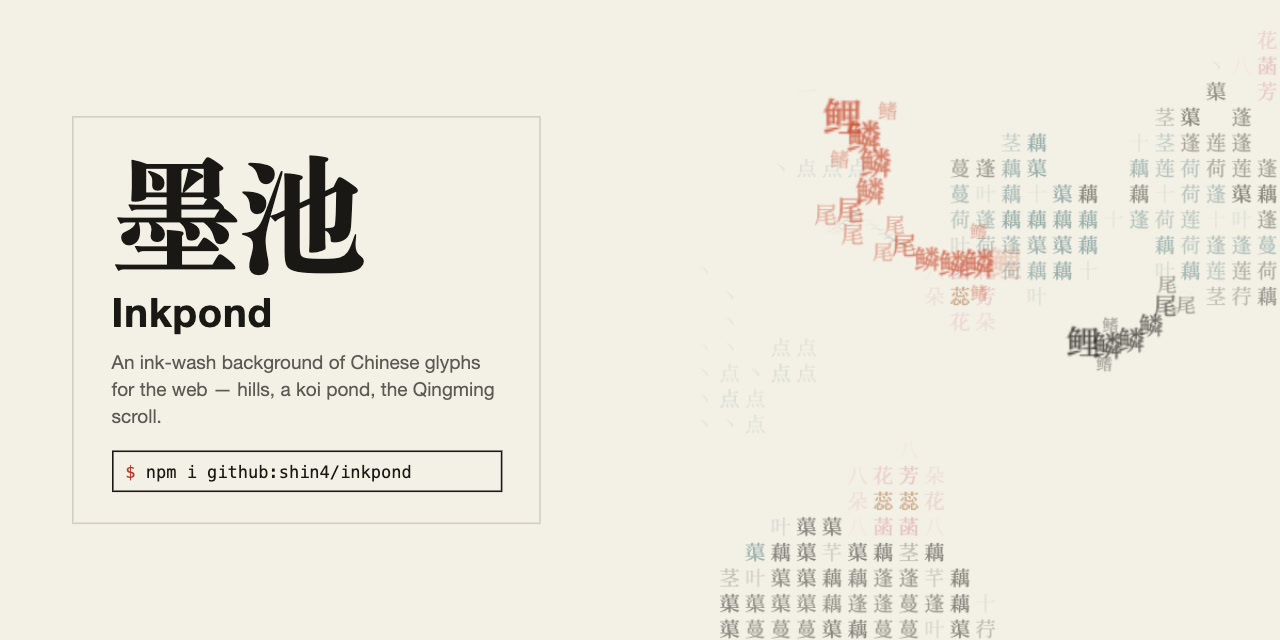
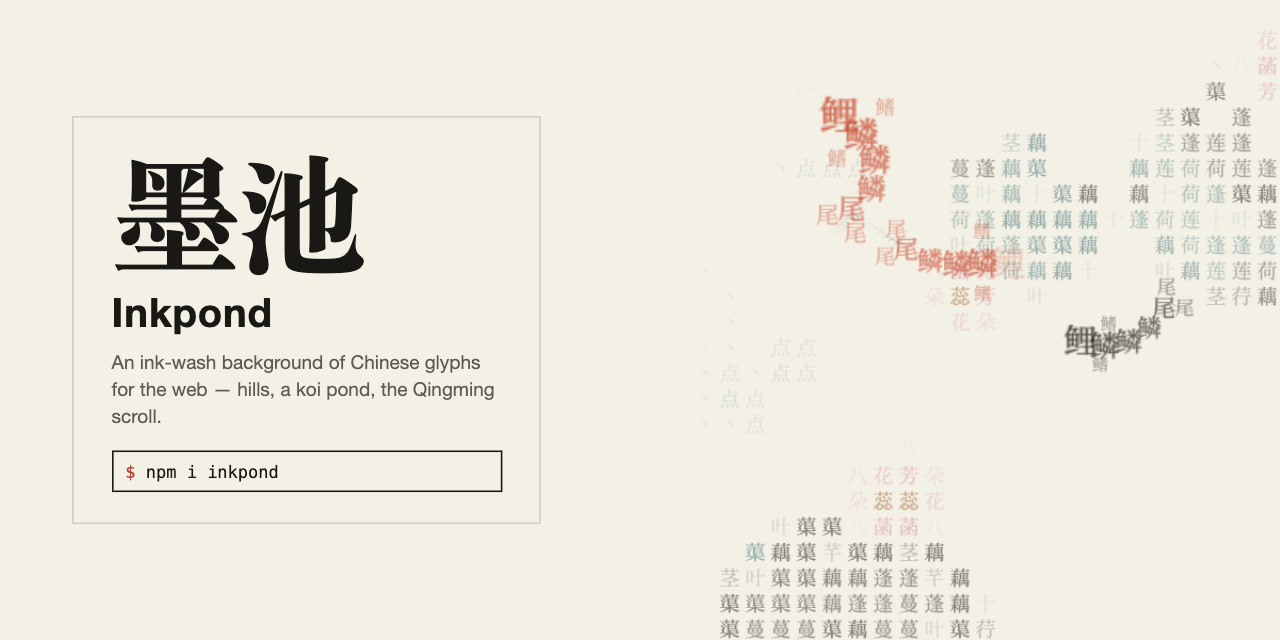
Install from npm in the docs, the project page and the preview
To merge once inkpond is on npm.

Changed region(s): [[0.625, 0.1562, 0.7812, 0.4688], [0.8125, 0.4375, 0.9375, 0.5938], [0.1562, 0.7188, 0.3125, 0.75]]

diff --git a/demo/Faq.tsx b/demo/Faq.tsx
@@ -76,7 +76,7 @@ export const FAQ: Record<Lang, Entry[]> = {
       q: "What problem does it solve?",
     },
     {
-      a: `Install with \`${INSTALL}\`; it builds on install. Import the stylesheet with \`import "inkpond/inkpond.css"\`, then put \`<InkPond />\` in a React tree, or call \`createInkPond(canvas)\` on any canvas.`,
+      a: `Install with \`${INSTALL}\` (or the latest commit with \`npm i github:shin4/inkpond\`). Import the stylesheet with \`import "inkpond/inkpond.css"\`, then put \`<InkPond />\` in a React tree, or call \`createInkPond(canvas)\` on any canvas.`,
       q: "How do I install and use it?",
     },
     {
@@ -153,7 +153,7 @@ export const FAQ: Record<Lang, Entry[]> = {
       q: "墨池解决什么问题？",
     },
     {
-      a: `目前从 GitHub 安装：\`${INSTALL}\`，安装时会自动构建。然后引入样式 \`import "inkpond/inkpond.css"\`，在 React 里放一个 \`<InkPond />\`，或者用 \`createInkPond(canvas)\` 挂到任意画布上。`,
+      a: `用 npm 安装：\`${INSTALL}\`（也可以从 GitHub 安装最新提交：\`npm i github:shin4/inkpond\`）。然后引入样式 \`import "inkpond/inkpond.css"\`，在 React 里放一个 \`<InkPond />\`，或者用 \`createInkPond(canvas)\` 挂到任意画布上。`,
       q: "怎么安装和使用？",
     },
     {

diff --git a/demo/site-meta.ts b/demo/site-meta.ts
@@ -5,7 +5,7 @@ export const REPO = "https://github.com/shin4/inkpond";
 export const VERSION = __SITE_VERSION__;
 export const UPDATED = __SITE_UPDATED__;
 
-export const INSTALL = "npm i github:shin4/inkpond";
+export const INSTALL = "npm i inkpond";
 
 /** The first sentence: what it is, who it is for, what it solves. */
 export const LEDE =

diff --git a/AGENTS.md b/AGENTS.md
@@ -7,8 +7,8 @@
 - 这是一个独立项目，不引入任何其他产品的代码、命名、样式或接口约定。
 - 库本身没有运行时依赖。React 是可选的 peer 依赖，只有 `src/react.tsx` 用到它。不要为了库功能新增依赖。
 - 发布的包只包含 `dist/`。`demo/` 只是演示，库代码不能依赖它。
-- 包还没发布到 npm，用户从 GitHub 安装（`npm i github:shin4/inkpond`），安装时由 `prepare` 运行 `scripts/build.mjs` 生成 `dist/`。这个脚本只能用 Node 自带模块，不能调用 shell 命令（`rm`、`cp`），否则在 Windows 上装不上。
-- 项目代码使用 MIT 许可（`LICENSE`），字体单独按 OFL 授权。仓库是公开的 GitHub 仓库 `shin4/inkpond`（CI 见 `.github/workflows/ci.yml`，项目主页随 `pages.yml` 部署到 https://shin4.github.io/inkpond/）；没有用户明确要求，不要推送、改仓库可见性或发布到 npm。
+- 包发布在 npm（`npm i inkpond`），`prepublishOnly` 会先跑检查和打包冒烟测试；也可以从 GitHub 安装（`npm i github:shin4/inkpond`），这时由 `prepare` 运行 `scripts/build.mjs` 生成 `dist/`。这个脚本只能用 Node 自带模块，不能调用 shell 命令（`rm`、`cp`），否则在 Windows 上装不上。
+- 项目代码使用 MIT 许可（`LICENSE`），字体单独按 OFL 授权。仓库是公开的 GitHub 仓库 `shin4/inkpond`（CI 见 `.github/workflows/ci.yml`，项目主页随 `pages.yml` 部署到 https://shin4.github.io/inkpond/）；没有用户明确要求，不要推送、改仓库可见性或发布到 npm；发布新版本时先改 `package.json` 的版本号，发布后打 `v<版本>` 标签。
 
 ## 分层
 

diff --git a/README.en.md b/README.en.md
@@ -7,6 +7,7 @@
 An ink-wash background of Chinese glyphs for the web.
 
 [![CI](https://github.com/shin4/inkpond/actions/workflows/ci.yml/badge.svg)](https://github.com/shin4/inkpond/actions/workflows/ci.yml)
+[![npm](https://img.shields.io/npm/v/inkpond.svg?color=b4372b)](https://www.npmjs.com/package/inkpond)
 [![License: MIT](https://img.shields.io/badge/license-MIT-b4372b.svg)](LICENSE)
 
 [**Live demo**](https://shin4.github.io/inkpond/en/) · [Session demo](https://shin4.github.io/inkpond/session/)
@@ -42,14 +43,20 @@ The lotus and Qingming scenes use a touch of pale colour (vermilion, rouge, ochr
 
 ## Install
 
-Not on npm yet. Install from GitHub; it builds on install:
+```bash
+npm i inkpond
+```
+
+The React component also needs `react` 18 or later (an optional peer dependency).
+
+<details>
+<summary>Installing the latest commit from GitHub</summary>
 
 ```bash
 npm i github:shin4/inkpond
 ```
 
-<details>
-<summary>With bun, or when npm mentions allow-scripts</summary>
+A GitHub install builds `dist/` on the spot:
 
 - npm 11 notes dependencies with build scripts (`allow-scripts`) and installs anyway; if your config blocks dependency scripts, run `npm approve-scripts inkpond`.
 - bun runs no dependency scripts by default and does not install a dependency's dev dependencies. Your project needs TypeScript, and inkpond must be trusted:
@@ -59,7 +66,6 @@ npm i github:shin4/inkpond
   bun add github:shin4/inkpond
   bun pm trust inkpond
   ```
-- To pin a version, add a commit or tag, e.g. `github:shin4/inkpond#<commit>`.
 
 </details>
 

diff --git a/README.md b/README.md
@@ -7,6 +7,7 @@
 以字为墨，以页为池：一层铺在网页背后的水墨汉字底。
 
 [![CI](https://github.com/shin4/inkpond/actions/workflows/ci.yml/badge.svg)](https://github.com/shin4/inkpond/actions/workflows/ci.yml)
+[![npm](https://img.shields.io/npm/v/inkpond.svg?color=b4372b)](https://www.npmjs.com/package/inkpond)
 [![License: MIT](https://img.shields.io/badge/license-MIT-b4372b.svg)](LICENSE)
 
 [**在线演示**](https://shin4.github.io/inkpond/) · [发起会话 Demo](https://shin4.github.io/inkpond/session/)
@@ -42,14 +43,20 @@
 
 ## 安装
 
-还没有发布到 npm，目前从 GitHub 安装，安装时自动构建：
+```bash
+npm i inkpond
+```
+
+用 React 时还需要 `react`（18 及以上，可选的 peer 依赖）。
+
+<details>
+<summary>安装 GitHub 上的最新提交</summary>
 
 ```bash
 npm i github:shin4/inkpond
 ```
 
-<details>
-<summary>用 bun、或 npm 提示 allow-scripts 时</summary>
+从 GitHub 安装时会现场构建 `dist/`：
 
 - npm 11 会对带构建脚本的依赖给出 `allow-scripts` 提示，安装照常完成；如果你的配置禁止依赖运行脚本，执行 `npm approve-scripts inkpond`。
 - bun 默认不运行依赖的脚本，也不安装依赖的开发依赖。需要项目里有 TypeScript，并信任 inkpond：
@@ -59,7 +66,6 @@ npm i github:shin4/inkpond
   bun add github:shin4/inkpond
   bun pm trust inkpond
   ```
-- 固定版本：在地址后加提交或标签，例如 `github:shin4/inkpond#<commit>`。
 
 </details>
 
